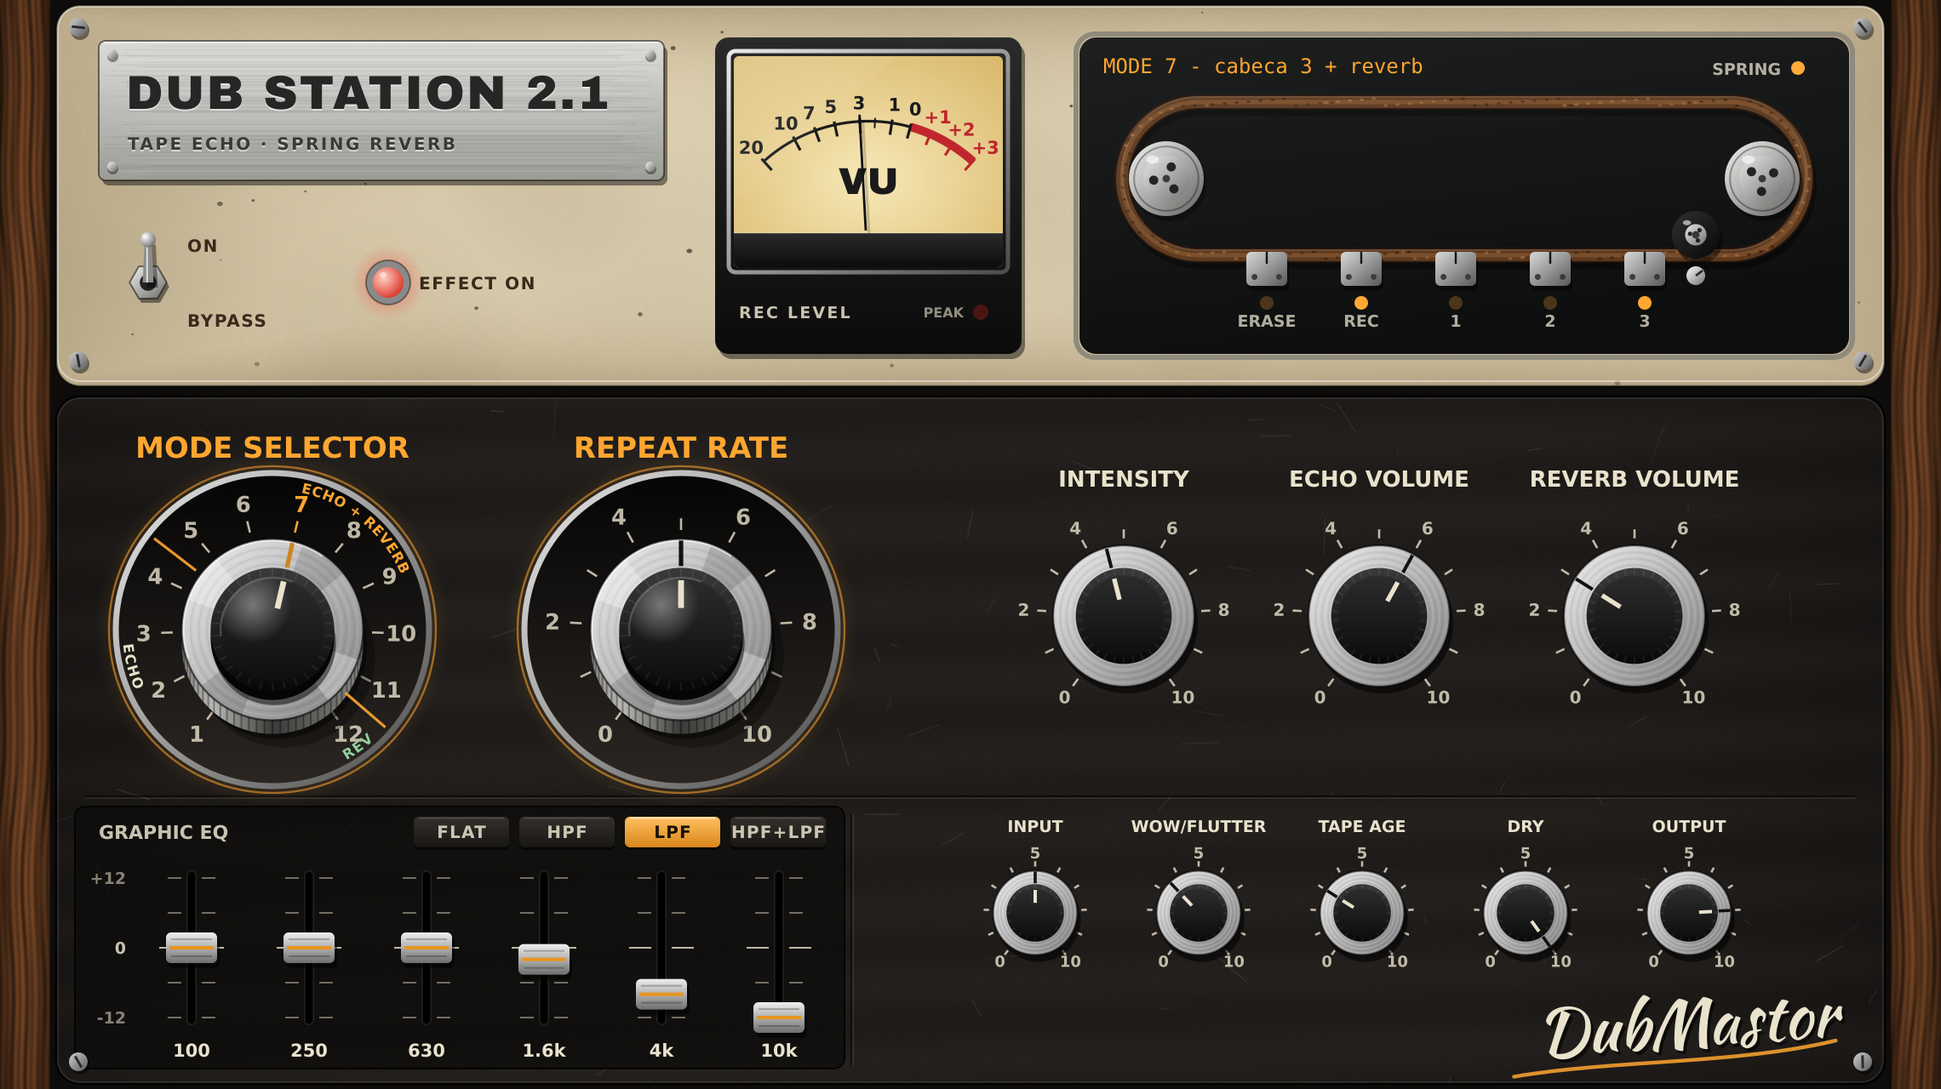
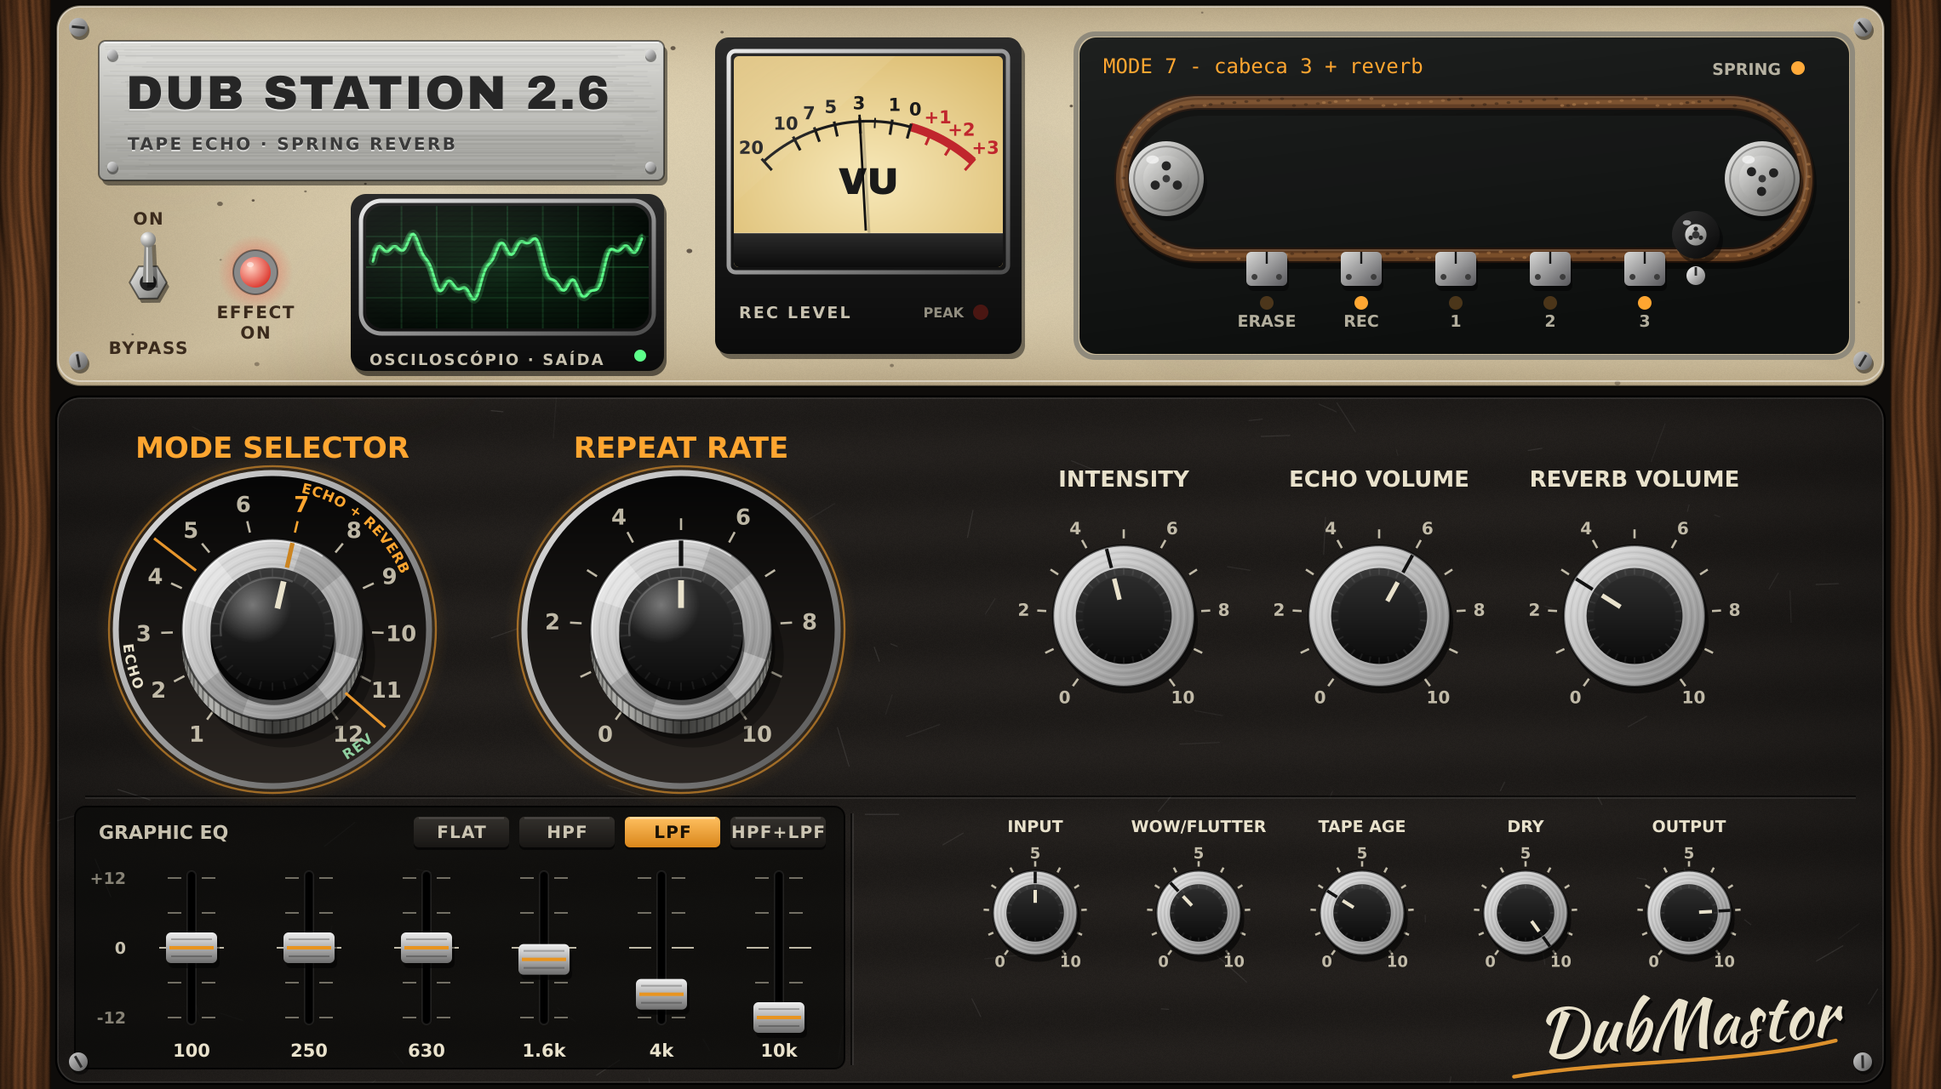
Dub Station 2.6: osciloscópio de tubo e nova versão
- Osciloscópio verde (mesmo visual do Mastor Fone) no painel creme,
  mostrando a onda que sai do plugin, com gatilho e persistência
- Versão 2.6 na placa, no plugin (2.6.0), nos READMEs, no site e no
  workflow; zips passam a se chamar DubStation26-*.zip
- Código do plugin (Ds21) e bundle ID mantidos para não quebrar
  projetos salvos nas DAWs

Claude-Session: https://claude.ai/code/session_01DJAeyYTcM2w1MTMrHyUZsT

diff --git a/site/index.html b/site/index.html
@@ -4,9 +4,9 @@
 <meta charset="utf-8">
 <meta name="viewport" content="width=device-width, initial-scale=1">
 <title>DubMastor — Plugins de dub (VST3 / AU)</title>
-<meta name="description" content="Baixe os plugins DubMastor Big Knob, Dub Station 2.1, Dub Station Roots Keys e Mastor Fone — VST3 para Windows e Mac, AU para Mac. Grátis.">
+<meta name="description" content="Baixe os plugins DubMastor Big Knob, Dub Station 2.6, Dub Station Roots Keys e Mastor Fone — VST3 para Windows e Mac, AU para Mac. Grátis.">
 <meta property="og:title" content="DubMastor — Plugins de dub">
-<meta property="og:description" content="Big Knob 3.2, Dub Station 2.1, Dub Station Roots Keys e Mastor Fone: filtro estilo King Tubby, eco de fita, reverb de mola, piano M1, órgão Hammond e voz de rádio, telefone e megafone. VST3 / AU, Windows e Mac.">
+<meta property="og:description" content="Big Knob 3.2, Dub Station 2.6, Dub Station Roots Keys e Mastor Fone: filtro estilo King Tubby, eco de fita, reverb de mola, piano M1, órgão Hammond e voz de rádio, telefone e megafone. VST3 / AU, Windows e Mac.">
 <meta property="og:image" content="img/dubstation21.jpg">
 <style>
   @font-face { font-family: "Plate"; src: url("fonts/ArchivoBlack-Regular.ttf") format("truetype"); font-display: swap; }
@@ -250,9 +250,9 @@
         </article>
 
         <article class="card">
-          <img class="shot" src="img/dubstation21.jpg" alt="Interface do Dub Station 2.1: painel creme com placa metálica, janela da fita e botões de alumínio" width="1400" height="786" loading="lazy">
+          <img class="shot" src="img/dubstation21.jpg" alt="Interface do Dub Station 2.6: painel creme com placa metálica, janela da fita e botões de alumínio" width="1400" height="786" loading="lazy">
           <div class="body">
-            <h3>Dub Station <small>2.1</small></h3>
+            <h3>Dub Station <small>2.6</small></h3>
             <p>Eco de fita de três cabeças com reverb de mola, no visual de equipamento de estúdio dos anos 70.</p>
             <ul>
               <li>Seletor de 12 modos e Repeat Rate com o pitch da fita</li>
@@ -262,8 +262,8 @@
             </ul>
             <div class="formats">Windows: VST3 + standalone · Mac: VST3, AU + standalone (Intel e Apple Silicon)</div>
             <div class="dl">
-              <a class="btn" href="https://github.com/dubmastor/DubMastor-DubStation-/releases/latest/download/DubStation21-Windows.zip">⬇ Windows<span>VST3 · zip, ~5 MB</span></a>
-              <a class="btn alt" href="https://github.com/dubmastor/DubMastor-DubStation-/releases/latest/download/DubStation21-macOS.zip">⬇ Mac<span>VST3 + AU · zip, ~9 MB</span></a>
+              <a class="btn" href="https://github.com/dubmastor/DubMastor-DubStation-/releases/latest/download/DubStation26-Windows.zip">⬇ Windows<span>VST3 · zip, ~5 MB</span></a>
+              <a class="btn alt" href="https://github.com/dubmastor/DubMastor-DubStation-/releases/latest/download/DubStation26-macOS.zip">⬇ Mac<span>VST3 + AU · zip, ~9 MB</span></a>
             </div>
           </div>
         </article>

diff --git a/DubStation21/Source/PluginEditor.cpp b/DubStation21/Source/PluginEditor.cpp
@@ -340,6 +340,107 @@ void VintageLookAndFeel::drawLinearSlider (juce::Graphics& g, int x, int y, int 
     g.fillRect (cap.getX() + 2, cap.getCentreY() - 1.0f, cap.getWidth() - 4, 2.0f);
 }
 
+// ---------------------------------------------------------------- oscilloscope
+void CrtScope::update()
+{
+    const int N = (int) buf.size(), show = 1024;
+    proc.copyScope (buf.data(), N);
+    // trigger: first rising zero crossing (with hysteresis) so the wave stands still
+    int start = N - show;
+    for (int i = N - show - 1; i > 1; --i)
+        if (buf[(size_t) i - 1] < -0.01f && buf[(size_t) i] >= 0.0f) { start = i; break; }
+    start = juce::jmin (start, N - show);
+
+    prev2 = prev1; prev1 = trace;
+    const int cols = 160;
+    trace.assign ((size_t) cols * 2, 0.0f);
+    for (int c = 0; c < cols; ++c)
+    {
+        float lo = 1e9f, hi = -1e9f;
+        const int a = start + c * show / cols, b = start + (c + 1) * show / cols;
+        for (int i = a; i < b; ++i) { lo = juce::jmin (lo, buf[(size_t) i]); hi = juce::jmax (hi, buf[(size_t) i]); }
+        trace[(size_t) c * 2] = lo; trace[(size_t) c * 2 + 1] = hi;
+    }
+    repaint();
+}
+
+void CrtScope::paint (juce::Graphics& g)
+{
+    auto b = getLocalBounds().toFloat();
+    const juce::Colour phosphor (0xff5dff8a);
+
+    // bakelite housing with chrome bezel
+    g.setColour (juce::Colours::black.withAlpha (0.55f));
+    g.fillRoundedRectangle (b.reduced (2.0f).translated (1.5f, 3.0f), 9.0f);
+    g.setGradientFill (juce::ColourGradient (juce::Colour (0xff2a2a2a), 0, b.getY(), juce::Colour (0xff0b0b0b), 0, b.getBottom(), false));
+    g.fillRoundedRectangle (b.reduced (2.0f), 9.0f);
+    auto label = b.removeFromBottom (18.0f);
+    auto screen = b.reduced (11.0f, 9.0f);
+    g.setGradientFill (juce::ColourGradient (juce::Colour (0xffe8e8e8), screen.getX(), screen.getY(), juce::Colour (0xff4c4c4c), screen.getRight(), screen.getBottom(), false));
+    g.drawRoundedRectangle (screen.expanded (3.0f), 12.0f, 2.5f);
+
+    // tube face: dark green, brighter in the middle (curvature)
+    juce::Path tube;
+    tube.addRoundedRectangle (screen, 10.0f);
+    g.setGradientFill (juce::ColourGradient (juce::Colour (0xff0f2a17), screen.getCentreX(), screen.getCentreY(),
+                                             juce::Colour (0xff030a05), screen.getX(), screen.getY(), true));
+    g.fillPath (tube);
+    {
+        juce::Graphics::ScopedSaveState ss (g);
+        g.reduceClipRegion (tube);
+
+        g.setColour (phosphor.withAlpha (0.13f));   // graticule
+        for (int i = 1; i < 8; ++i)
+            g.drawVerticalLine (juce::roundToInt (screen.getX() + screen.getWidth() * (float) i / 8.0f), screen.getY(), screen.getBottom());
+        for (int i = 1; i < 4; ++i)
+            g.drawHorizontalLine (juce::roundToInt (screen.getY() + screen.getHeight() * (float) i / 4.0f), screen.getX(), screen.getRight());
+        g.setColour (phosphor.withAlpha (0.22f));
+        g.drawHorizontalLine (juce::roundToInt (screen.getCentreY()), screen.getX(), screen.getRight());
+
+        // trace with phosphor persistence (previous frames fainter)
+        auto drawTrace = [&] (const std::vector<float>& t, float alpha, bool glow)
+        {
+            if (t.size() < 4) return;
+            const int cols = (int) t.size() / 2;
+            const float cy = screen.getCentreY(), amp = screen.getHeight() * 0.45f;
+            auto yOf = [&] (float v) { return cy - amp * juce::jlimit (-1.0f, 1.0f, v * 1.6f); };
+            juce::Path p;
+            for (int c = 0; c < cols; ++c)
+            {
+                const float x = screen.getX() + 4.0f + (screen.getWidth() - 8.0f) * (float) c / (float) (cols - 1);
+                const float mid = 0.5f * (t[(size_t) c * 2] + t[(size_t) c * 2 + 1]);
+                if (c == 0) p.startNewSubPath (x, yOf (mid)); else p.lineTo (x, yOf (mid));
+                g.setColour (phosphor.withAlpha (0.35f * alpha));   // min..max band of the column
+                g.drawLine (x, yOf (t[(size_t) c * 2]), x, yOf (t[(size_t) c * 2 + 1]), 1.0f);
+            }
+            if (glow)
+            {
+                g.setColour (phosphor.withAlpha (0.18f * alpha));
+                g.strokePath (p, juce::PathStrokeType (5.0f, juce::PathStrokeType::curved, juce::PathStrokeType::rounded));
+            }
+            g.setColour (phosphor.withAlpha (alpha));
+            g.strokePath (p, juce::PathStrokeType (1.5f, juce::PathStrokeType::curved, juce::PathStrokeType::rounded));
+        };
+        drawTrace (prev2, 0.18f, false);
+        drawTrace (prev1, 0.35f, false);
+        drawTrace (trace, 1.0f, true);
+
+        g.setColour (juce::Colours::black.withAlpha (0.18f));   // scanlines + glass reflection
+        for (float y = screen.getY(); y < screen.getBottom(); y += 3.0f)
+            g.drawHorizontalLine (juce::roundToInt (y), screen.getX(), screen.getRight());
+        g.setGradientFill (juce::ColourGradient (juce::Colours::white.withAlpha (0.10f), screen.getX(), screen.getY(),
+                                                 juce::Colours::transparentWhite, screen.getX() + screen.getWidth() * 0.6f, screen.getY() + screen.getHeight() * 0.6f, false));
+        g.fillPath (tube);
+    }
+
+    g.setColour (cream.withAlpha (0.85f));
+    g.setFont (juce::FontOptions (9.0f, juce::Font::bold).withKerningFactor (0.12f));
+    g.drawText (juce::String::fromUTF8 ("OSCILOSC\xc3\x93PIO  \xc2\xb7  SA\xc3\x8d" "DA"), label.withTrimmedLeft (13.0f), juce::Justification::centredLeft);
+    const auto lp = juce::Point<float> (label.getRight() - 16.0f, label.getCentreY() - 2.0f);
+    g.setColour (phosphor);
+    g.fillEllipse (lp.x - 3.5f, lp.y - 3.5f, 7.0f, 7.0f);
+}
+
 // ---------------------------------------------------------------------- editor
 FitaEcoEditor::FitaEcoEditor (FitaEcoProcessor& p) : AudioProcessorEditor (p), proc (p)
 {
@@ -388,6 +489,8 @@ FitaEcoEditor::FitaEcoEditor (FitaEcoProcessor& p) : AudioProcessorEditor (p), p
         b.onClick = [this, i] { applyEqPreset (i); };
         addAndMakeVisible (b);
     }
+
+    addAndMakeVisible (scope);
 
     bypassSwitch.setName ("bypass");
     bypassSwitch.setTooltip ("Bypass: alavanca para cima = efeito ligado");
@@ -462,6 +565,7 @@ void FitaEcoEditor::timerCallback()
     }
     status.setText (text, juce::dontSendNotification);
     repaint (tapeWindow);
+    scope.update();
 
     const int active = matchingEqPreset();
     for (int i = 0; i < kNumEqPresets; ++i)
@@ -474,7 +578,7 @@ void FitaEcoEditor::paint (juce::Graphics& g)
     if (background.isValid())
         g.drawImage (background, getLocalBounds().toFloat());
 
-    // metal name plate: engraved "DUB STATION 2.1" and the tagline
+    // metal name plate: engraved "DUB STATION 2.6" and the tagline
     const auto pl = plateArea;
     auto engraved = [&g] (const juce::String& t, juce::Rectangle<float> r, juce::Justification j, juce::Colour c)
     {
@@ -484,7 +588,7 @@ void FitaEcoEditor::paint (juce::Graphics& g)
         g.drawText (t, r, j);
     };
     g.setFont (juce::FontOptions (plateFace).withHeight (28.0f).withKerningFactor (0.04f));
-    engraved ("DUB STATION 2.1", { pl.getX() + 16, pl.getY() + 10, pl.getWidth() - 28, 40 },
+    engraved ("DUB STATION 2.6", { pl.getX() + 16, pl.getY() + 10, pl.getWidth() - 28, 40 },
               juce::Justification::centredLeft, juce::Colour (0xff262626));
     g.setFont (juce::FontOptions (10.0f, juce::Font::bold).withKerningFactor (0.12f));
     engraved (juce::String (juce::CharPointer_UTF8 ("TAPE ECHO  \xc2\xb7  SPRING REVERB")), { pl.getX() + 17, pl.getY() + 54, pl.getWidth() - 28, 14 },
@@ -495,8 +599,8 @@ void FitaEcoEditor::paint (juce::Graphics& g)
         const auto sw = bypassSwitch.getBounds().toFloat();
         g.setColour (ink);
         g.setFont (juce::FontOptions (10.0f, juce::Font::bold).withKerningFactor (0.08f));
-        g.drawText ("ON", juce::Rectangle<float> (sw.getRight() + 2, sw.getY() + 2, 60, 12), juce::Justification::centredLeft);
-        g.drawText ("BYPASS", juce::Rectangle<float> (sw.getRight() + 2, sw.getBottom() - 14, 60, 12), juce::Justification::centredLeft);
+        g.drawText ("ON", juce::Rectangle<float> (sw.getCentreX() - 30, sw.getY() - 14, 60, 12), juce::Justification::centred);
+        g.drawText ("BYPASS", juce::Rectangle<float> (sw.getCentreX() - 30, sw.getBottom() + 2, 60, 12), juce::Justification::centred);
         const bool on = ! bypassSwitch.getToggleState();
         const auto lp = bypassLamp;
         g.setColour (juce::Colour (0xff8a8a8a));
@@ -515,7 +619,8 @@ void FitaEcoEditor::paint (juce::Graphics& g)
         g.setColour (juce::Colours::white.withAlpha (0.5f));
         g.fillEllipse (lp.x - 5, lp.y - 6, 4, 3);
         g.setColour (ink);
-        g.drawText ("EFFECT ON", juce::Rectangle<float> (lp.x + 18, lp.y - 7, 90, 14), juce::Justification::centredLeft);
+        g.drawText ("EFFECT", juce::Rectangle<float> (lp.x - 40, lp.y + 17, 80, 12), juce::Justification::centred);
+        g.drawText ("ON", juce::Rectangle<float> (lp.x - 40, lp.y + 29, 80, 12), juce::Justification::centred);
     }
 
     // "DubMastor" signature, brush script, bottom-right corner of the dark panel
@@ -837,7 +942,9 @@ void FitaEcoEditor::resized()
     }
     status.setBounds (tapeWindow.getX() + 14, tapeWindow.getY() + 8, 300, 18);
     bypassSwitch.setBounds ((int) plateArea.getX() + 8, (int) plateArea.getBottom() + 30, 42, 60);
-    bypassLamp = { plateArea.getX() + 170.0f, plateArea.getBottom() + 60.0f };
+    bypassLamp = { plateArea.getX() + 92.0f, plateArea.getBottom() + 54.0f };
+    scope.setBounds (juce::Rectangle<int> ((int) plateArea.getX() + 146, (int) plateArea.getBottom() + 6,
+                                           (int) plateArea.getWidth() - 144, kTopH - (int) plateArea.getBottom() - 16));
 
     auto rows = bottomPanel.reduced (10, 0).withTrimmedTop (12).withTrimmedBottom (10);
     auto rowA = rows.removeFromTop (222);

diff --git a/DubStation21/Source/PluginEditor.h b/DubStation21/Source/PluginEditor.h
@@ -18,6 +18,19 @@ public:
                            float minPos, float maxPos, juce::Slider::SliderStyle, juce::Slider&) override;
 };
 
+// Green phosphor CRT showing the waveform that leaves the plugin
+// (same look as the scope of Mastor Fone)
+class CrtScope : public juce::Component
+{
+public:
+    explicit CrtScope (FitaEcoProcessor& p) : proc (p) { setInterceptsMouseClicks (false, false); }
+    void paint (juce::Graphics&) override;
+    void update();   // called by the editor's timer
+private:
+    FitaEcoProcessor& proc;
+    std::vector<float> buf = std::vector<float> (2048), trace, prev1, prev2;
+};
+
 // Layout: cream enamel upper panel (name plate + tape transport window with
 // moving tape and head lamps) over a dark lower panel: MODE and REPEAT RATE as
 // highlighted giant knobs, medium echo knobs, a 6-band graphic EQ and small
@@ -50,6 +63,7 @@ private:
     std::array<Knob, 6> eqFaders;
     std::array<juce::TextButton, 4> eqPresets;   // FLAT, HPF, LPF, HPF+LPF
     juce::ToggleButton bypassSwitch;
+    CrtScope scope { proc };
     std::unique_ptr<juce::AudioProcessorValueTreeState::ButtonAttachment> bypassAtt;
     void applyEqPreset (int idx);
     int matchingEqPreset() const;

diff --git a/DubStation21/Source/PluginProcessor.h b/DubStation21/Source/PluginProcessor.h
@@ -35,6 +35,15 @@ public:
     juce::AudioProcessorValueTreeState apvts;
     static juce::AudioProcessorValueTreeState::ParameterLayout createLayout();
 
+    // oscilloscope: last output samples (mono), written by the audio thread
+    static constexpr int kScopeSize = 8192;
+    void copyScope (float* dest, int n) const
+    {
+        const int w = scopeWrite.load (std::memory_order_acquire);
+        for (int i = 0; i < n; ++i)
+            dest[i] = scopeBuf[(size_t) ((w - n + i) & (kScopeSize - 1))];
+    }
+
     // level at the record head, in VU (0 VU = TapeEcho::kRecRef), read by the editor's meter
     float getRecVu() const { return recVu.load(); }
 
@@ -44,6 +53,8 @@ private:
     juce::AudioParameterBool* bypassParam = nullptr;
     juce::SmoothedValue<float> bypassMix; // 0 = effect, 1 = dry (click-free crossfade)
     std::atomic<float> recVu { -60.0f };
+    std::array<float, kScopeSize> scopeBuf {};
+    std::atomic<int> scopeWrite { 0 };
 
     std::atomic<float>* pInput {}; std::atomic<float>* pMode {}; std::atomic<float>* pRate {};
     std::atomic<float>* pIntensity {}; std::atomic<float>* pEcho {}; std::atomic<float>* pReverb {};

diff --git a/DubStation21/Source/PluginProcessor.cpp b/DubStation21/Source/PluginProcessor.cpp
@@ -104,6 +104,15 @@ void FitaEcoProcessor::processBlock (juce::AudioBuffer<float>& buffer, juce::Mid
         }
     }
 
+    // feed the oscilloscope with what actually leaves the plugin
+    int sw = scopeWrite.load (std::memory_order_relaxed);
+    for (int i = 0; i < n; ++i)
+    {
+        scopeBuf[(size_t) sw] = 0.5f * (oL[i] + oR[i]);
+        sw = (sw + 1) & (kScopeSize - 1);
+    }
+    scopeWrite.store (sw, std::memory_order_release);
+
     buffer.copyFrom (0, 0, oL, n);
     if (outCh > 1) buffer.copyFrom (1, 0, oR, n);
     else

diff --git a/README.md b/README.md
@@ -9,7 +9,7 @@ Plugins de dub por **DubMastor**, em VST3 (Windows e Mac) e AU (Mac). Feitos e t
 | **DubMastor Big Knob 3.2** | Estação de dub: filtro big knob estilo King Tubby (com bypass), eco de fita com cabeçotes, presets de EQ e liga/desliga, sirene de dub, VUs e maximizer | [⬇ macOS](https://github.com/dubmastor/DubMastor-DubStation-/releases/latest/download/DubMastorBigKnob-macOS.zip) | [⬇ Windows](https://github.com/dubmastor/DubMastor-DubStation-/releases/latest/download/DubMastorBigKnob-Windows.zip) | [BigKnob/](BigKnob/) |
 | **Dub Station Roots Keys 2.1** | Instrumento: piano estilo Korg M1 e órgão estilo Hammond com Leslie, eco de fita FitaEco, maximizer, VUs e teclado que acende com o MIDI; visual de teclado anos 80 no piano e de madeira e marfim no órgão | [⬇ macOS](https://github.com/dubmastor/DubMastor-DubStation-/releases/latest/download/DubStationRootsKeys-macOS.zip) | [⬇ Windows](https://github.com/dubmastor/DubMastor-DubStation-/releases/latest/download/DubStationRootsKeys-Windows.zip) | [RootsKeys/](RootsKeys/) |
 | **Mastor Fone 1.4** | Efeito de voz: rádio AM, telefone antigo e megafone, com o eco de fita e o maximizer do Big Knob, no visual Dub Station | [⬇ macOS](https://github.com/dubmastor/DubMastor-DubStation-/releases/latest/download/MastorFone-macOS.zip) | [⬇ Windows](https://github.com/dubmastor/DubMastor-DubStation-/releases/latest/download/MastorFone-Windows.zip) | [MastorFone/](MastorFone/) |
-| **Dub Station 2.1 (FitaEco TE-12)** | Eco de fita de 3 cabeças + reverb de mola, com EQ gráfico | [⬇ macOS](https://github.com/dubmastor/DubMastor-DubStation-/releases/latest/download/DubStation21-macOS.zip) | [⬇ Windows](https://github.com/dubmastor/DubMastor-DubStation-/releases/latest/download/DubStation21-Windows.zip) | [DubStation21/](DubStation21/) |
+| **Dub Station 2.6 (FitaEco TE-12)** | Eco de fita de 3 cabeças + reverb de mola, com EQ gráfico | [⬇ macOS](https://github.com/dubmastor/DubMastor-DubStation-/releases/latest/download/DubStation26-macOS.zip) | [⬇ Windows](https://github.com/dubmastor/DubMastor-DubStation-/releases/latest/download/DubStation26-Windows.zip) | [DubStation21/](DubStation21/) |
 
 Todos os downloads ficam na página de **[Releases](https://github.com/dubmastor/DubMastor-DubStation-/releases/latest)**. Não precisa de conta no GitHub para baixar.
 
@@ -41,12 +41,12 @@ O formato é **VST3** (`.vst3`). O formato antigo `.vst` (VST2) não é suportad
 
 ```
 BigKnob/                         DubMastor Big Knob (C++ / JUCE 8)
-DubStation21/                    Dub Station 2.1 — FitaEco TE-12 (C++ / JUCE 8)
+DubStation21/                    Dub Station 2.6 — FitaEco TE-12 (C++ / JUCE 8)
 RootsKeys/                       Dub Station Roots Keys — piano M1 + órgão Hammond (C++ / JUCE 8)
 MastorFone/                      Mastor Fone — rádio AM, telefone e megafone para voz (C++ / JUCE 8)
 .github/workflows/
   build-bigknob.yml              compila, valida e publica o Big Knob
-  build-dubstation21.yml         compila, valida e publica o Dub Station 2.1
+  build-dubstation21.yml         compila, valida e publica o Dub Station 2.6
   build-rootskeys.yml            compila, valida e publica o Dub Station Roots Keys
   build-mastorfone.yml           compila, valida e publica o Mastor Fone
 ```

diff --git a/DubStation21/README.md b/DubStation21/README.md
@@ -1,4 +1,4 @@
-# Dub Station 2.1 (FitaEco TE-12) — Tape Echo + Spring Reverb (VST3 / AU / Standalone)
+# Dub Station 2.6 (FitaEco TE-12) — Tape Echo + Spring Reverb (VST3 / AU / Standalone)
 
 Por DubMastor.
 
@@ -51,8 +51,8 @@ Tempos: cabeça 1 de 175 ms (lento) a 55 ms (rápido); cabeças 2 e 3 em 2× e 3
 ## Download
 
 O GitHub Actions compila sozinho a cada push nesta pasta (`.github/workflows/build-dubstation21.yml`):
-- **Actions → "Build Dub Station 2.1" → última execução → Artifacts**: `DubStation21-Windows` e `DubStation21-macOS`.
-- Quando uma release é publicada na página de **Releases** do repositório, os zips (`DubStation21-macOS.zip` e `DubStation21-Windows.zip`) são anexados a ela automaticamente.
+- **Actions → "Build Dub Station 2.6" → última execução → Artifacts**: `DubStation26-Windows` e `DubStation26-macOS`.
+- Quando uma release é publicada na página de **Releases** do repositório, os zips (`DubStation26-macOS.zip` e `DubStation26-Windows.zip`) são anexados a ela automaticamente.
 
 Instalação: copie `FitaEco TE-12.vst3` para `C:\Program Files\Common Files\VST3` (Windows) ou
 `~/Library/Audio/Plug-Ins/VST3` (Mac; o AU vai em `~/Library/Audio/Plug-Ins/Components`).
